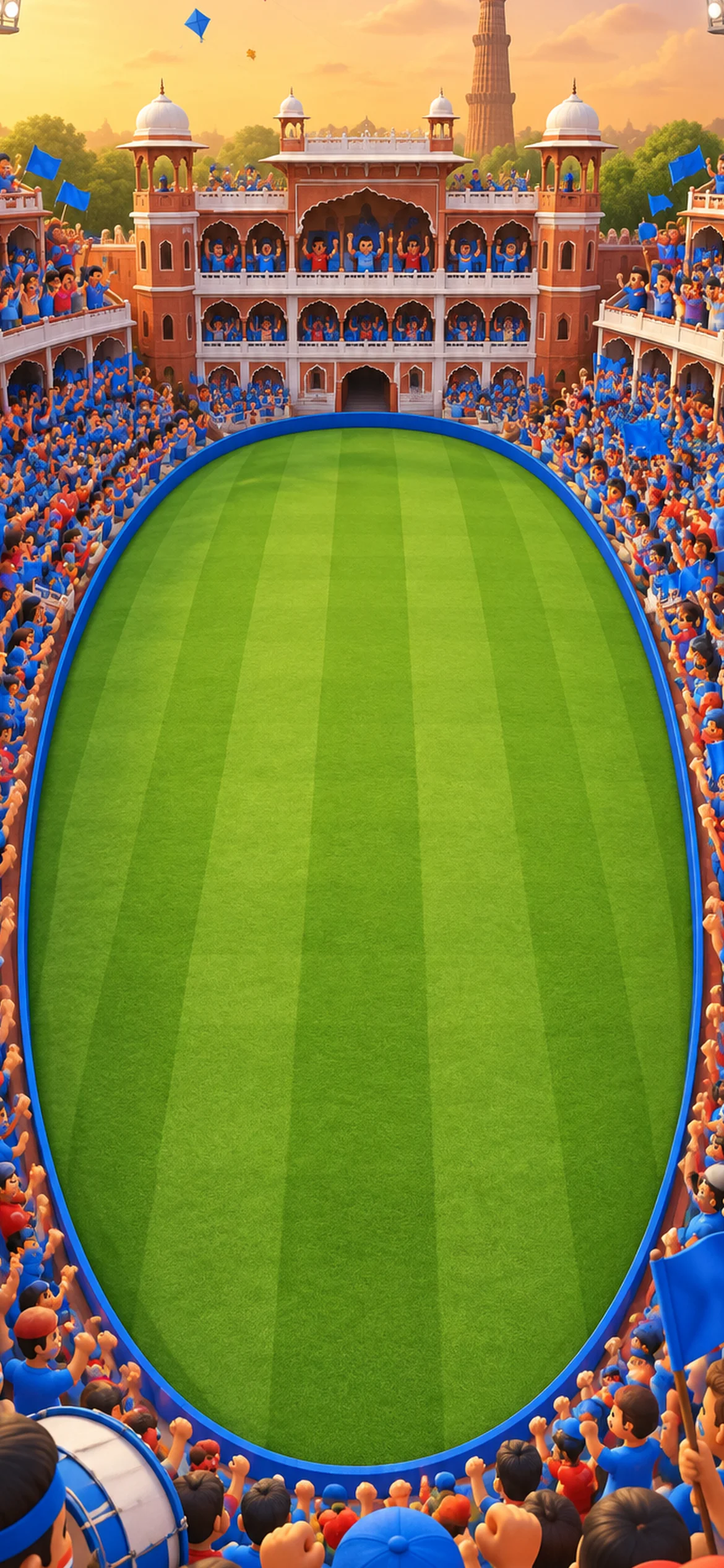
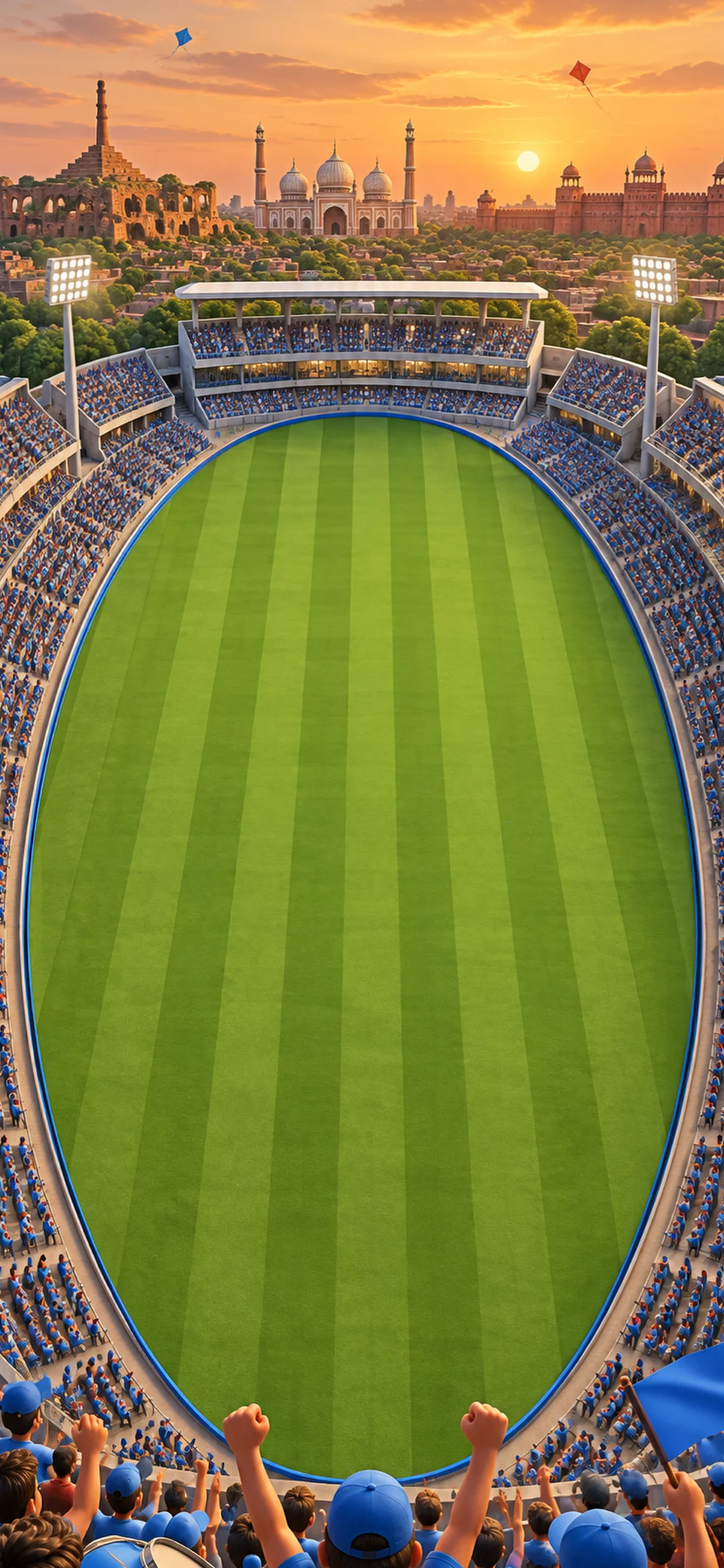
Delhi: new plate matching Arun Jaitley Stadium (old board, props, lettering kept)
Claude-Session: https://claude.ai/code/session_01EnXvJ6P6HcGRxjBSnYPdAU

diff --git a/art/grounds/ART_PACKAGE.md b/art/grounds/ART_PACKAGE.md
@@ -342,3 +342,4 @@ Revert = point THEME_ART.ti_<city>.dir and RESULT_ART back at the old dir and co
 Review: icl_sheet.jpg (old: icl_current.jpg).
 Nov 6: Joe compared (icl_before_after.jpg) and prefers the old ICL — game rewired back to mumbai/ … lucknow/ and old plates.
 The redo stays in mumbai2/ … lucknow2/ (unwired) for reference.
+Nov 6: Delhi plate redone to look like Arun Jaitley Stadium (grey concrete bowl, plain roofed pavilion, Kotla ruins + Ashokan pillar, Jama Masjid, Red Fort) — Figma 525:191, delhi/raw/plate_525-191.png. Old board/props/lettering kept. Compare: delhi_compare.jpg.
